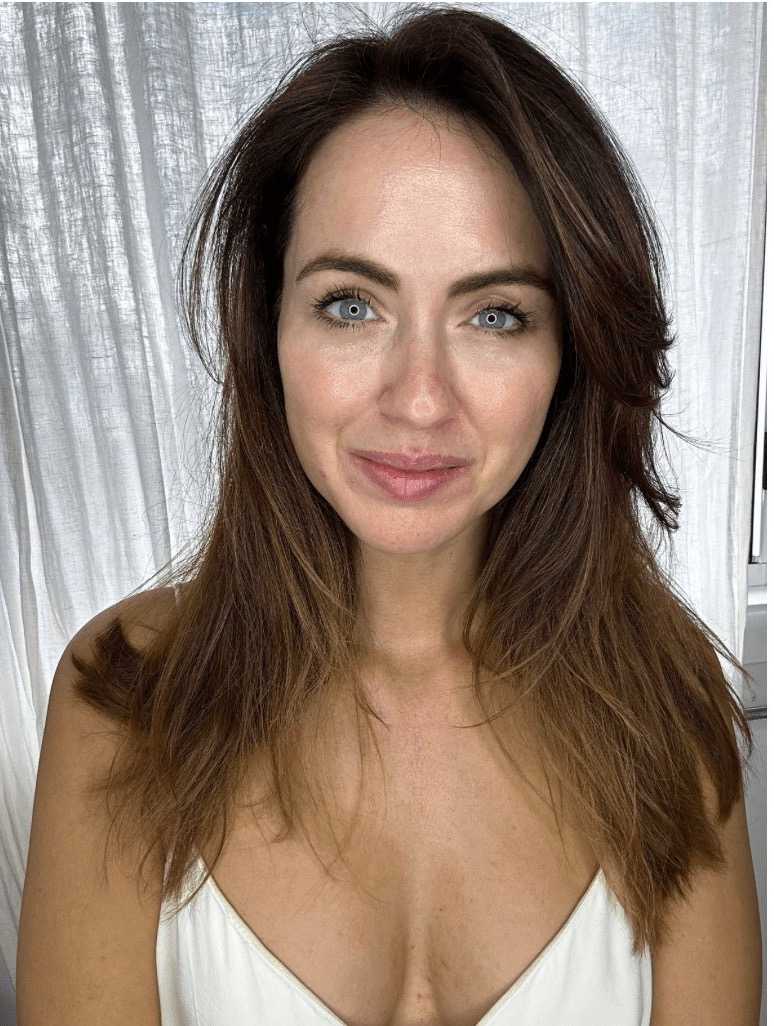
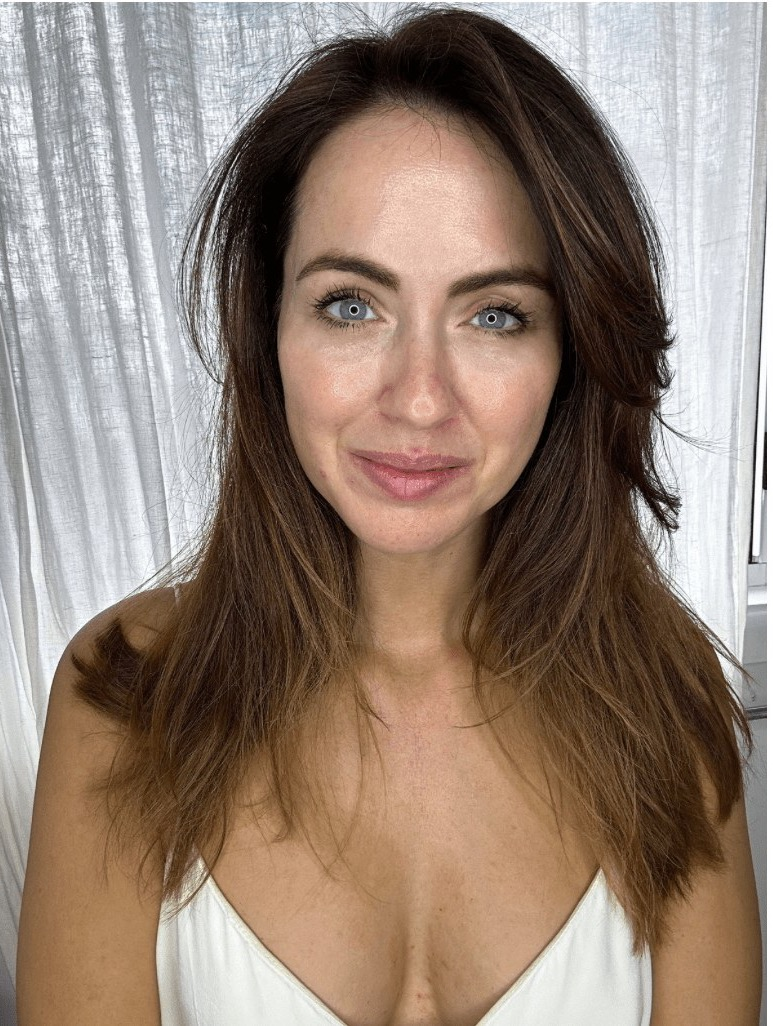
feat: add interactive BeforeAfterSlider to 10 articles with before/after imagery
Add BeforeAfterSlider MDX component and integrate it across 10 articles:
- Vitamin A reader trial (5 sliders), Systeme Bio+ (4), Qure Micro-Infusion (3),
  Dermalogica sensitive skin (3), micro-infusion at home (1), keratin treatment (1),
  Nioxin hair loss (1), cheek blush tattoo (1), lipstick tattoo (1), HiSmile whitening (1).
Cropped combined before/after images for micro-infusion and HiSmile articles.

diff --git a/components/article/ArticlePage.tsx b/components/article/ArticlePage.tsx
@@ -26,6 +26,7 @@ import NumberedSection from '@/components/mdx/NumberedSection'
 import BeforeAfterSlider from '@/components/mdx/BeforeAfterSlider'
 import Caption from '@/components/mdx/Caption'
 import InlineImage from '@/components/mdx/InlineImage'
+import BeforeAfterSlider from '@/components/mdx/BeforeAfterSlider'
 import ProductTile from '@/components/shared/ProductTile'
 import SubscribeBand from '@/components/shared/SubscribeBand'
 import rehypeImageGrid from '@/lib/rehype-image-grid'
